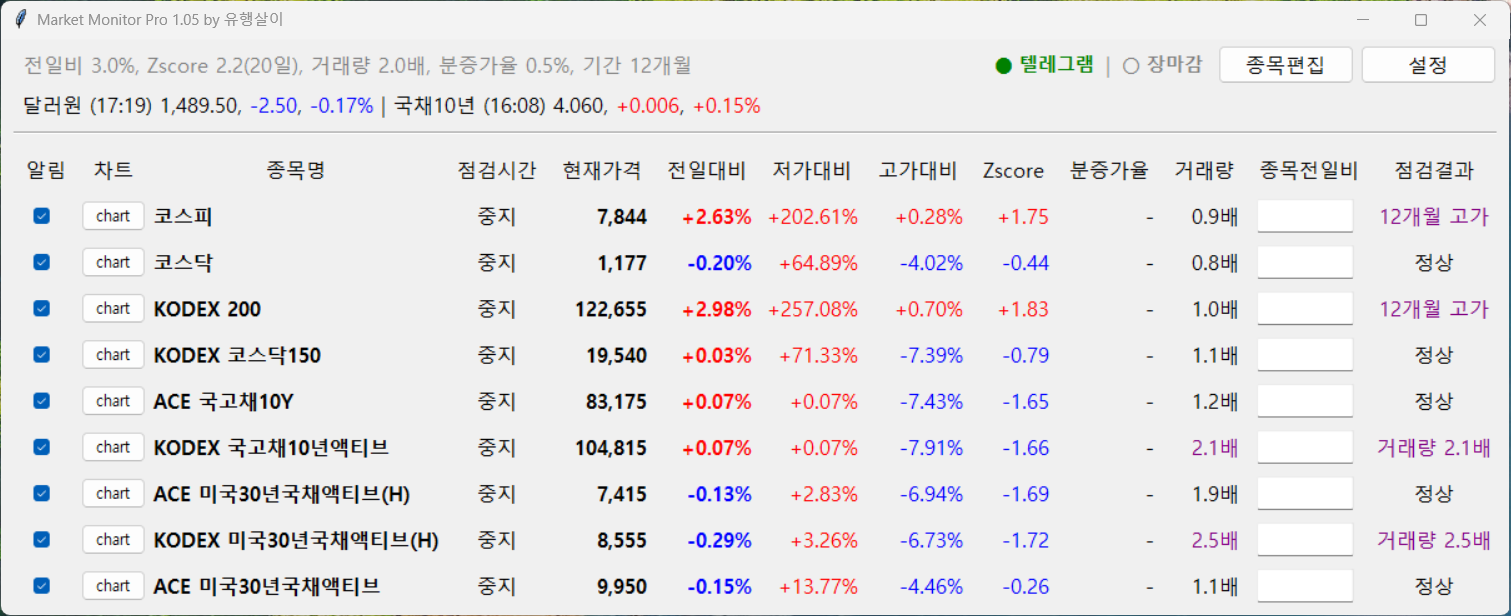
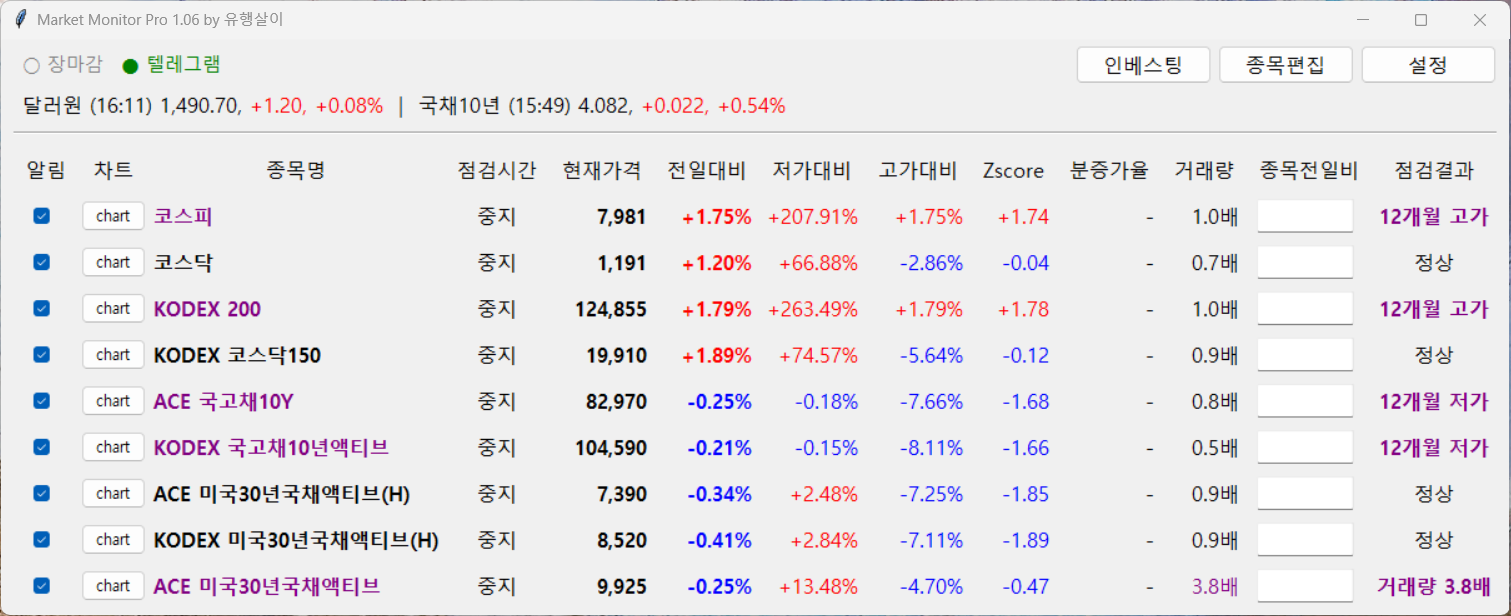
26.5.14

diff --git a/index_mm.html b/index_mm.html
@@ -165,7 +165,7 @@
             </div>
             <br>
             <li>
-                국내에 상장된 모든 개별종목과 지수(KOSPI, KOSDAQ 등)를 지원하며, 주식시장은 장이 열리는 <span class="highlight">09:00 ~ 15:35</span> 동안 작동하고
+                국내에 상장된 모든 개별종목과 지수(KOSPI, KOSDAQ 등)를 지원하며, 주식시장은 장이 열리는 <span class="highlight">09:00 ~ 15:30</span> 동안 작동하고
                 이외의 시간에는 점검, 알림이 중지됩니다. 환율, 금리 등 중요 시장지표는 상시 점검하고 알림이 발송됩니다.
             </li>
         </ul>
@@ -224,7 +224,7 @@
         </ul>
         <br><br>
 
-        <h3>2.2 상시점검 및 알림항목 (차기버전)</h3>
+        <h3>2.2 상시점검 및 알림항목</h3>
         <br>
         <h3>2.2.1 달러원 환율 증감율</h3>
         <ul>
@@ -349,7 +349,7 @@
             </li>
             <li>불편사항 개선 및 소소한 오류 수정<br>
                 종목 추가시 코스피는 시총 상위 300개 기업, ETF는 시총 4,000억원 이상인 종목들 목록 제공<br>
-                15:30분 장마감후 최종 가격 미반영 방지를 위해 15:35분까지 점검, 알림 시간을 연장<br>
+                15:30분 장마감후 최종 가격 미반영 방지를 위해 15:31분까지 점검, 알림 시간을 연장<br>
                 알림기준 기본값 변경, 컬럼길이 확대 등
             </li>
         </ul>
@@ -368,7 +368,7 @@
         </ul>
         <br>
 
-        <h3>5-4 Market Monitor Pro 1.07 (차기버전)</h3>
+        <h3>5-4 Market Monitor Pro 1.07</h3>
         <ul>
             <li>달러원 환율, 국채10년 금리를 점검 및 알림항목에 신규 추가<br>
                 전일대비 1.0%('설정'에서 변경 가능) 이상 상승(+) 또는 하락(-)<br>
@@ -384,8 +384,8 @@
 
         <h2>6. 다운로드</h2>
         <ul>
-            <li>버전 1.06 <a href="https://drive.google.com/file/d/1C7RazTA_SSjlrkN8OHUWVmWl809M_hw3/view?usp=sharing"
-                    download>다운로드</a>, 최종 수정일 2026.05.13</li>
+            <li>버전 1.07 <a href="https://drive.google.com/file/d/1AVszztmp48HsGb2Ate39-F5bz2JGb26V/view?usp=sharing"
+                    download>다운로드</a>, 최종 수정일 2026.05.14</li>
             <li>이 프로그램은 누구나 자유롭게 사용할 수 있도록 제공되는 프리웨어(Freeware)입니다.<br>
                 기능개선 및 에러수정, 기타 제안은 <span class="highlight">유행살이 게시판</span>에 남겨주시기 바랍니다.</li>
         </ul>

diff --git a/version_mm.html b/version_mm.html
@@ -8,7 +8,7 @@
 </head>
 
 <body>
-    Market Monitor Pro 버전 : 1.06
+    Market Monitor Pro 버전 : 1.07
 </body>
 
 </html>